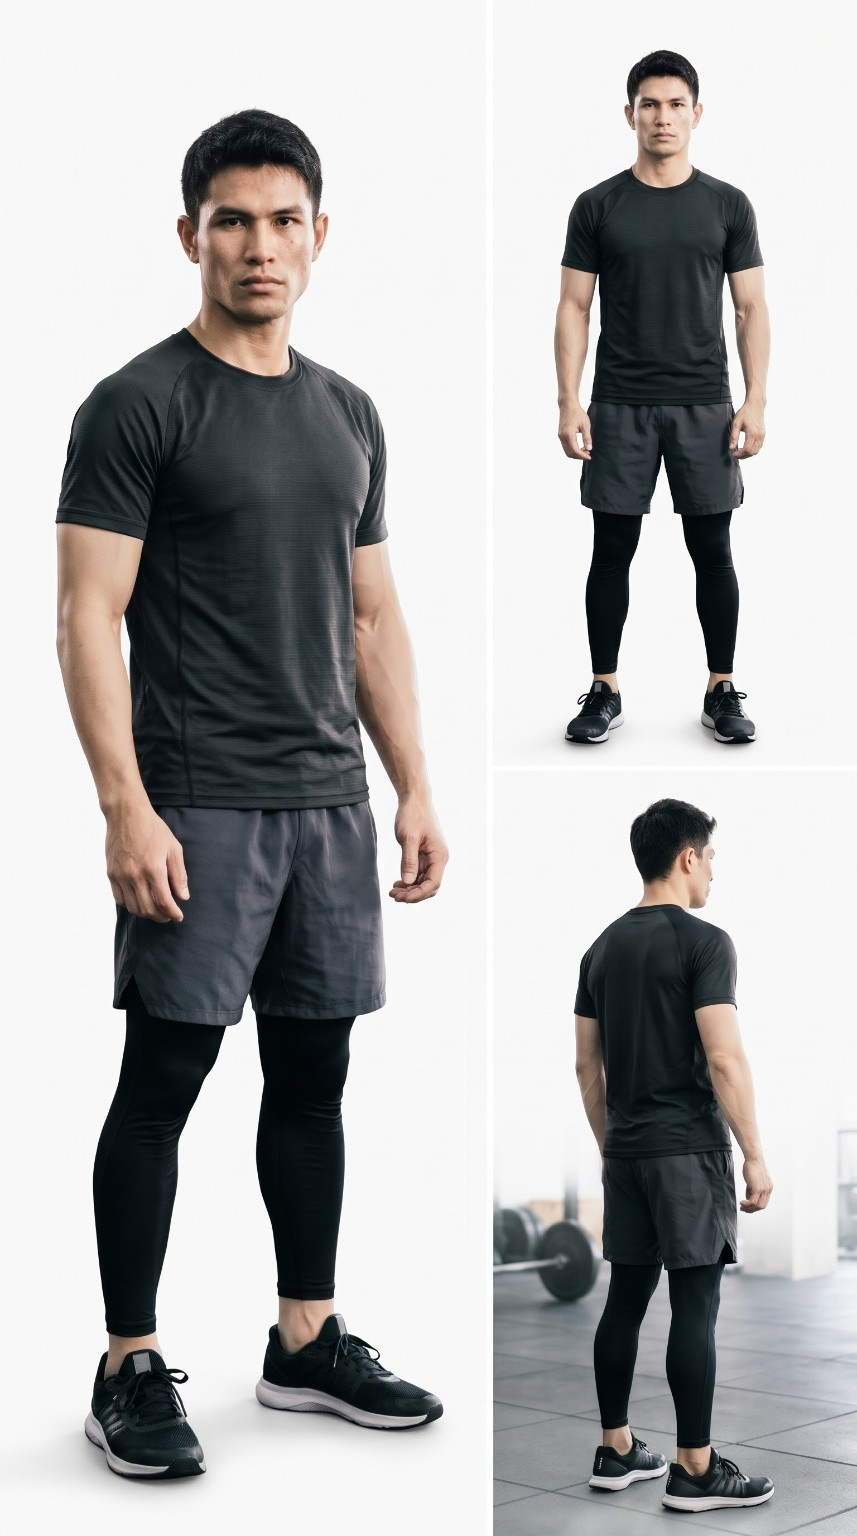
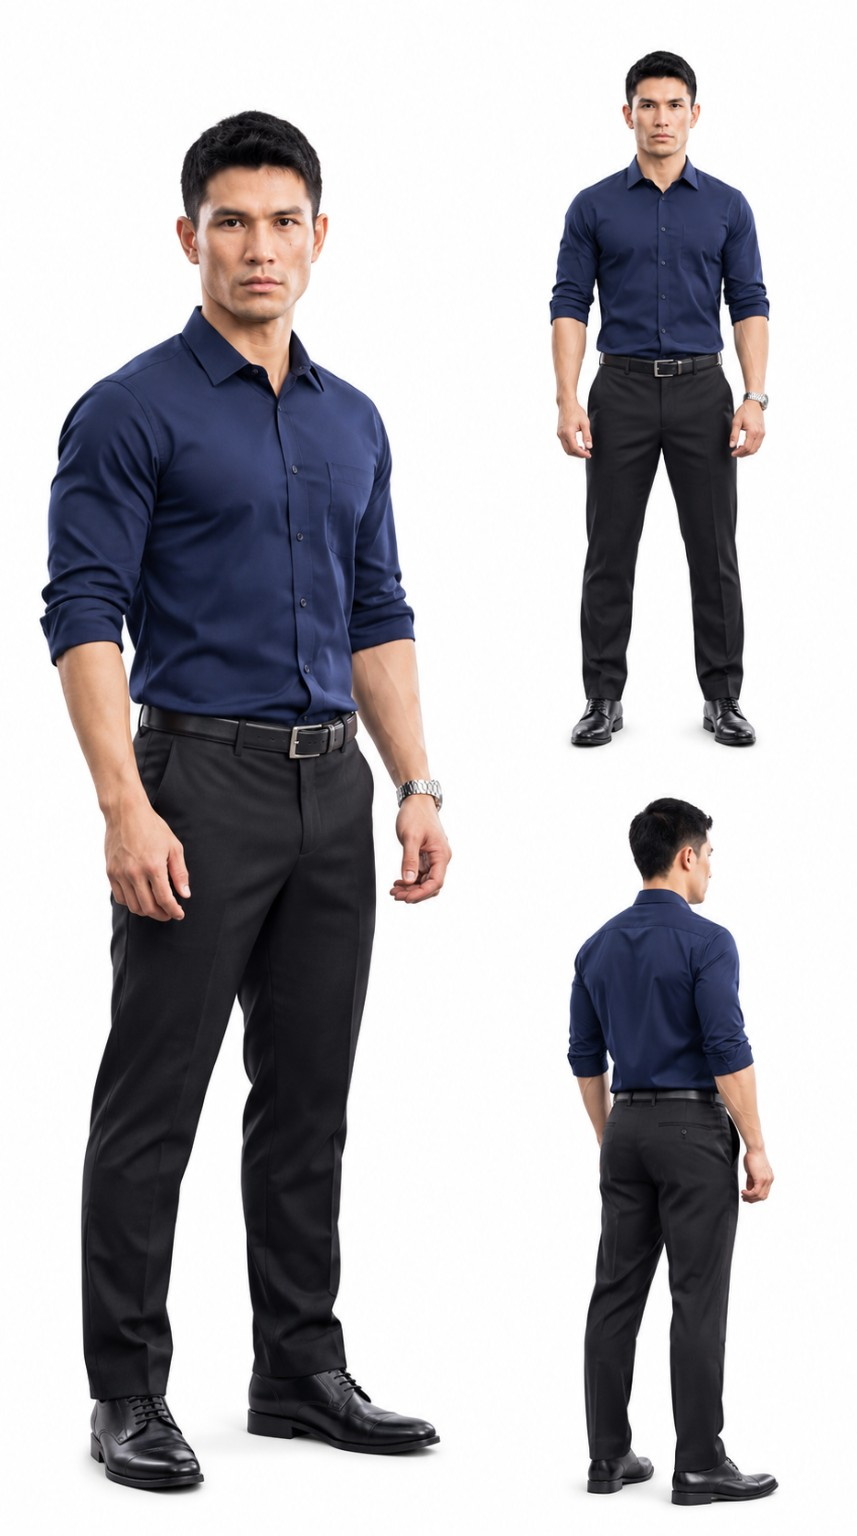
Replace Krit character reference with supplied outfit (3.25)

diff --git a/app/src/androidTest/java/com/pearparinya/automovie/MasterLibraryTest.kt b/app/src/androidTest/java/com/pearparinya/automovie/MasterLibraryTest.kt
@@ -11,6 +11,18 @@ import java.util.UUID
 
 @RunWith(AndroidJUnit4::class)
 class MasterLibraryTest {
+    @Test fun updatedKritReferenceReplacesOldLibraryCache() {
+        val context=InstrumentationRegistry.getInstrumentation().targetContext
+        val root=File(context.cacheDir,"krit-cache-${UUID.randomUUID()}").apply { mkdirs() }
+        try {
+            val library=MasterLibrary(root) { context.assets.open(it).use { input -> input.readBytes() } }
+            val entry=library.entries().first { it.id=="CHAR_141" }
+            val cached=File(root,entry.filename).apply { writeText("old cached reference") }
[1 lines of base64/hex data omitted]
+            assertEquals(entry.sha256,MasterLibrary.digest(library.source(entry).readBytes()))
+            assertEquals(entry.sha256,MasterLibrary.digest(cached.readBytes()))
+        } finally { root.deleteRecursively() }
+    }
     @Test fun bundledCatalogKeepsNewWomenAndMenWithoutOldWomenOrDuplicateImages() {
         val context=InstrumentationRegistry.getInstrumentation().targetContext
         val rows=JSONObject(context.assets.open("master_library/catalog.json").bufferedReader().use { it.readText() }).getJSONArray("records")

diff --git a/app/src/main/java/com/pearparinya/automovie/StudioActivity.kt b/app/src/main/java/com/pearparinya/automovie/StudioActivity.kt
@@ -645,6 +645,10 @@ class StudioActivity : AppCompatActivity() {
     }
     private fun installCharacterMasters() {
         CharacterLibraryReset.install(filesDir)
+        // Refresh an existing cached copy of Krit's reference after the bundled image changes.
+        if(File(filesDir,"master_library/CHAR_141__1000030680.jpg").isFile) {
+            masterLibrary.entries().firstOrNull { it.id=="CHAR_141" }?.let { masterLibrary.source(it) }
+        }
     }
     override fun onResume() {
         super.onResume()
